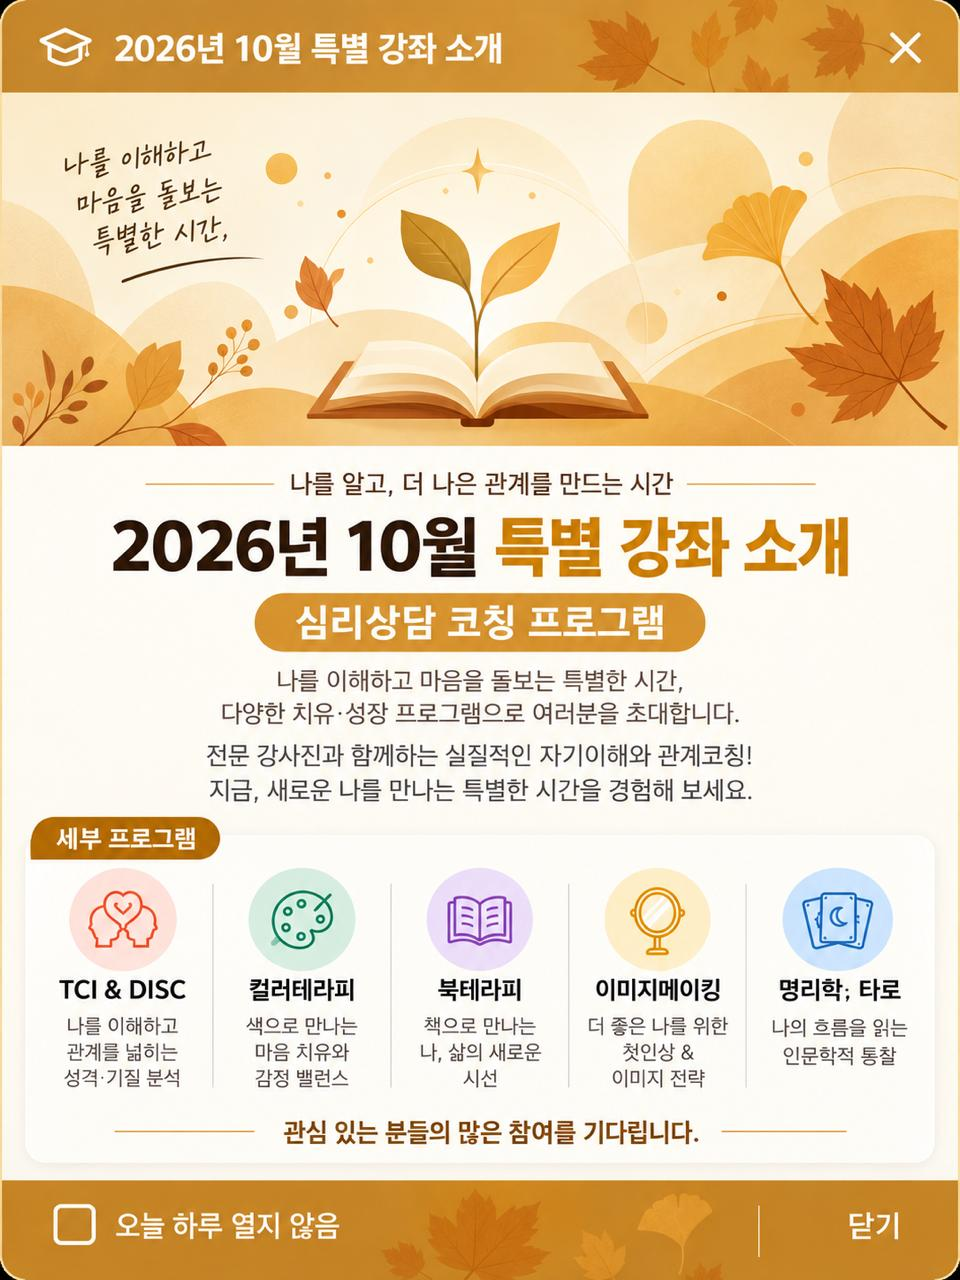
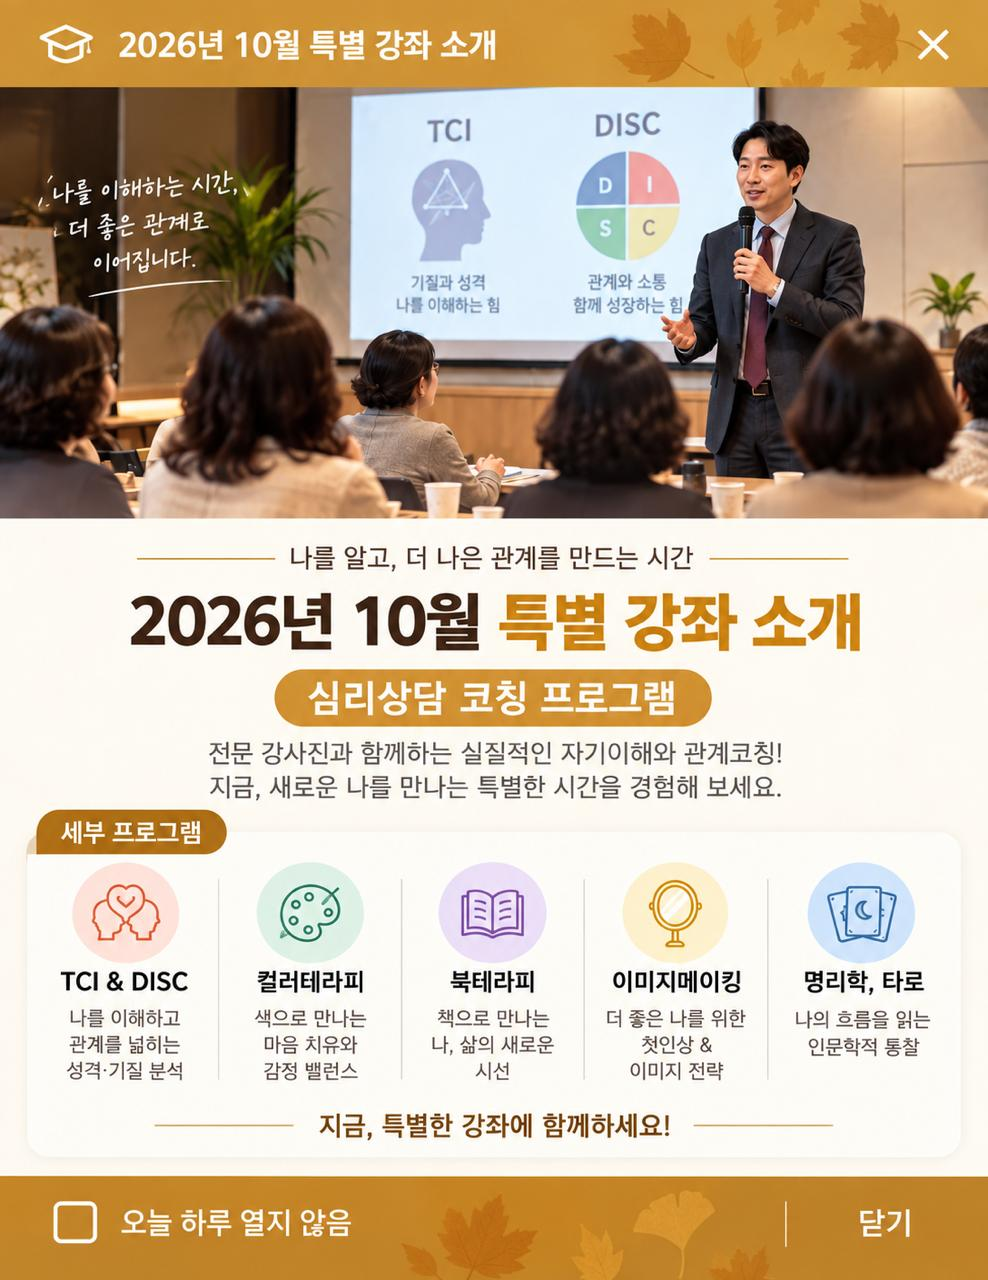
Add files via upload

diff --git a/index.html b/index.html
@@ -2435,7 +2435,7 @@ html body #popup .ce-individual-popup{
 <p>문화와 배움으로 오늘이 더 특별해지는 새로운 경험.<br>편안하게 배우고, 깊이 있게 나를 만나는 시간을 시작해 보세요.</p>
 <div class="trust-actions"><a class="primary" href="#trust-programs">강좌 둘러보기 →</a><a class="secondary" href="about.html">플랫폼 소개 →</a></div>
 </div></section>
-<section class="trust-strip"><div><b>전문 강사진 </b><span>분야별 전문 강사진과 함께</span></div><div><b>다양한 프로그램</b><span>예술·인문학·심리상담·원데이 클래스</span></div><div><b>편안한 배움</b><span>부담 없이 시작하는 문화 경험</span></div><div><b>신뢰할 수 있는 운영</b><span>사람과 배움을 잇는 체계적인 프로그램</span></div></section>
+<section class="trust-strip"><div><b>전문 강사진 8인</b><span>분야별 전문 강사진과 함께</span></div><div><b>다양한 프로그램</b><span>예술·인문학·심리상담·원데이 클래스</span></div><div><b>편안한 배움</b><span>부담 없이 시작하는 문화 경험</span></div><div><b>신뢰할 수 있는 운영</b><span>사람과 배움을 잇는 체계적인 프로그램</span></div></section>
 <section class="trust-section" id="trust-programs"><div class="trust-section-head"><span>OUR PROGRAM</span><h2>당신을 위한 특별한 문화 클래스</h2><p>관심과 필요에 따라 편안하게 선택할 수 있는 프로그램을 만나보세요.</p></div>
 <div class="trust-program-grid">
 <a class="trust-program-card" href="humanities.html"><div class="trust-program-img" style="background-image:url('images/humanities-new/art.jpg')"></div><div class="trust-program-body"><small>01</small><h3>예술 인문학</h3><p>미술 · 고전 · 음악 · 영화<br>예술로 만나는 더 넓은 세상</p><b>자세히 보기 →</b></div></a>
@@ -2955,7 +2955,7 @@ html body #popup .ce-individual-popup{
 </div>
 <p class="instructor-intro">
                 문화 이음 플랫폼의 각 분야 전문 강사진을 소개합니다.
-        
+                아래 사진 영역에 강사님의 프로필 사진을 넣을 수 있습니다.
             </p>
 <div class="instructor-grid">
 
@@ -3012,12 +3012,10 @@ html body #popup .ce-individual-popup{
 <h3>정혜영</h3>
 <p>사진강좌</p>
 </div>
-</div>
-<div class="instructor-info">
-<span class="instructor-role">강사</span>
-<h3>이광평</h3>
-<p>뇌과학</p>
-</div>
+</article>
+<article class="instructor-card photo-lee" id="instructor-gwangpyeong">
+
+
 </article>
 </div>
 </div>

diff --git a/instructors.html b/instructors.html
@@ -1540,7 +1540,7 @@ html body #popup .ce-individual-popup{
 </div>
 <p class="instructor-intro">
                 문화 이음 플랫폼의 각 분야 전문 강사진을 소개합니다.
-        
+                아래 사진 영역에 강사님의 프로필 사진을 넣을 수 있습니다.
             </p>
 <div class="instructor-grid">
 
@@ -1599,13 +1599,8 @@ html body #popup .ce-individual-popup{
 </div>
 </article>
 <article class="instructor-card photo-lee" id="instructor-gwangpyeong">
-<div class="instructor-photo" style="background-image:url('images/이광평 사진.jpg');">
-</div>
-<div class="instructor-info">
-<span class="instructor-role">강사</span>
-<h3>이광평</h3>
-<p>뇌과학</p>
-</div>
+
+
 </article>
 </div>
 </div>

diff --git a/apply.html b/apply.html
@@ -2073,13 +2073,8 @@ html body #popup .ce-individual-popup{
 </div>
 </article>
 <article class="instructor-card photo-lee" id="instructor-gwangpyeong">
-<div class="instructor-photo" style="background-image:url('images/이광평 사진.jpg');">
-</div>
-<div class="instructor-info">
-<span class="instructor-role">강사</span>
-<h3>이광평</h3>
-<p>뇌과학</p>
-</div>
+
+
 </article>
 </div>
 </div>

diff --git a/counseling.html b/counseling.html
@@ -2073,13 +2073,8 @@ html body #popup .ce-individual-popup{
 </div>
 </article>
 <article class="instructor-card photo-lee" id="instructor-gwangpyeong">
-<div class="instructor-photo" style="background-image:url('images/이광평 사진.jpg');">
-</div>
-<div class="instructor-info">
-<span class="instructor-role">강사</span>
-<h3>이광평</h3>
-<p>뇌과학</p>
-</div>
+
+
 </article>
 </div>
 </div>

diff --git a/humanities.html b/humanities.html
@@ -2116,13 +2116,8 @@ html body #popup .ce-individual-popup{
 </div>
 </article>
 <article class="instructor-card photo-lee" id="instructor-gwangpyeong">
-<div class="instructor-photo" style="background-image:url('images/이광평 사진.jpg');">
-</div>
-<div class="instructor-info">
-<span class="instructor-role">강사</span>
-<h3>이광평</h3>
-<p>뇌과학</p>
-</div>
+
+
 </article>
 </div>
 </div>

diff --git a/oneday.html b/oneday.html
@@ -2073,13 +2073,8 @@ html body #popup .ce-individual-popup{
 </div>
 </article>
 <article class="instructor-card photo-lee" id="instructor-gwangpyeong">
-<div class="instructor-photo" style="background-image:url('images/이광평 사진.jpg');">
-</div>
-<div class="instructor-info">
-<span class="instructor-role">강사</span>
-<h3>이광평</h3>
-<p>뇌과학</p>
-</div>
+
+
 </article>
 </div>
 </div>
